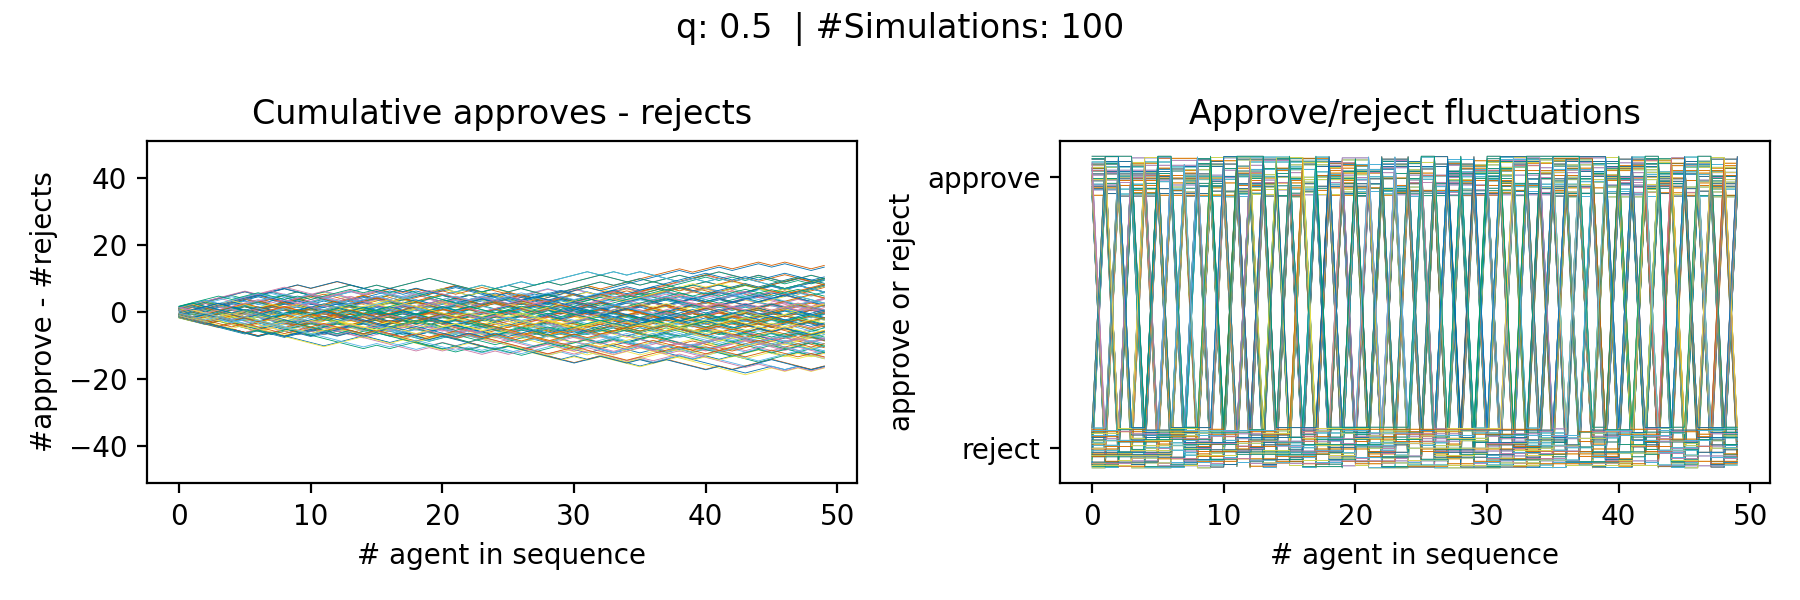
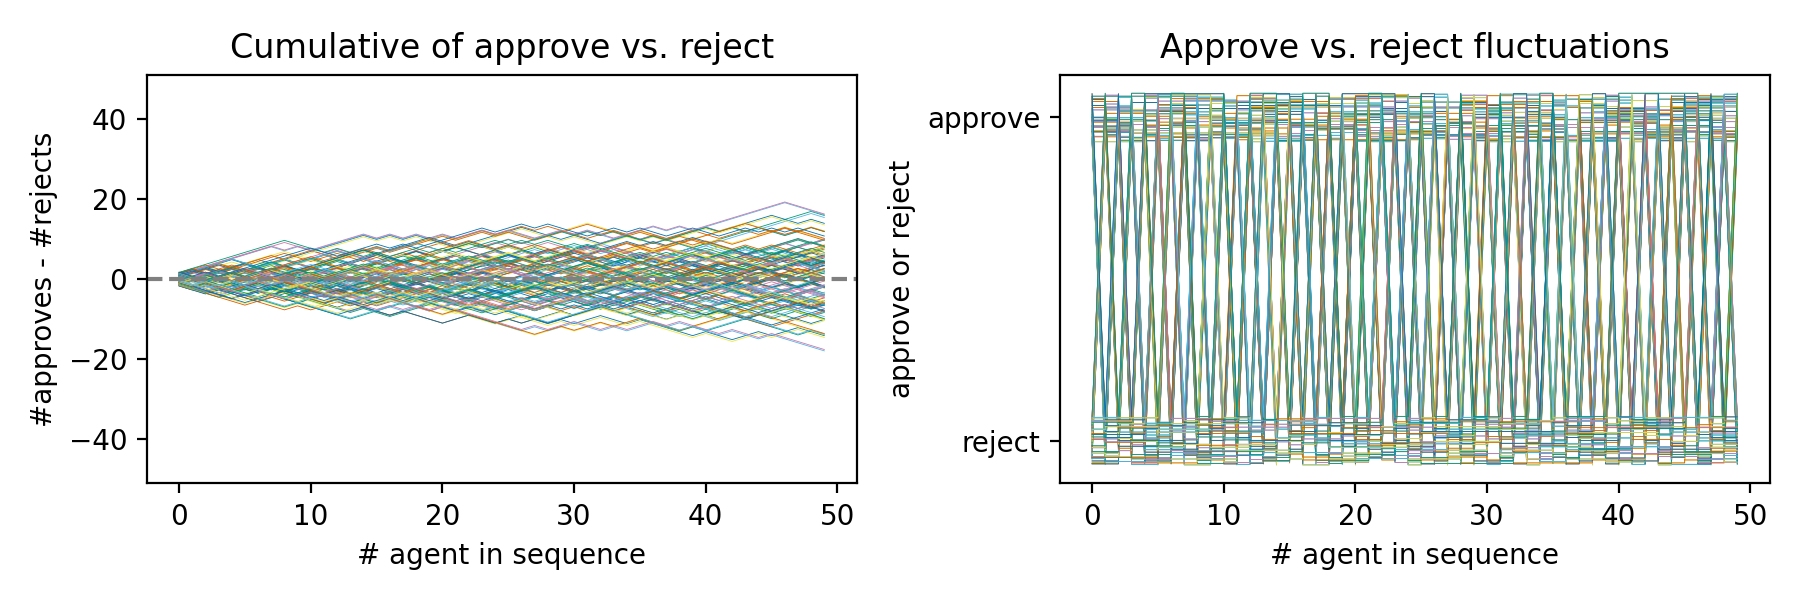
plot update

diff --git a/tools/plotting.py b/tools/plotting.py
@@ -57,8 +57,8 @@ def create_double_plot(results, n_simutations, n_agents, signal_accuracy, save, 
     plt.style.use('seaborn-colorblind') # colors
 
     # info about data stored
-    plot_types = {'ab_cumsum': {'t': 'Cumulative approves - rejects', 'y': '#approve - #rejects'},
-                  'ab': {'t': 'Approve/reject fluctuations', 'y': 'approve or reject'}}
+    plot_types = {'ab_cumsum': {'t': 'Cumulative of approve vs. reject', 'y': '#approves - #rejects'},
+                  'ab': {'t': 'Approve vs. reject fluctuations', 'y': 'approve or reject'}}
 
     n_subplots = len(plot_types.keys())
     fig, ax = plt.subplots(nrows=1, ncols=n_subplots, figsize=(9, 3))
@@ -82,6 +82,8 @@ def create_double_plot(results, n_simutations, n_agents, signal_accuracy, save, 
             offset = np.linspace(-3/4, 3/4, n_simutations)
             for sim in range(n_simutations):
                 ax[idx].plot(results[sim][plot_type] + offset[sim], linewidth=.3)
+            # if independent experiment
+            ax[idx].axhline(y=0, color='grey', linestyle='--')#, linewidth=.3)
         elif plot_type == 'ab':
             # creating offset for lines to make them more visible
             offset = np.linspace(-0.15, 0.15, n_simutations)
@@ -89,11 +91,10 @@ def create_double_plot(results, n_simutations, n_agents, signal_accuracy, save, 
                 ax[idx].plot(results[sim][plot_type] + offset[sim], linewidth=.3)
             ax[idx].set_yticks([-1, 1])
             ax[idx].set_yticklabels(['reject', 'approve'])
-
         ax[idx].set_ylabel(plot_types[plot_type]['y'])
         ax[idx].set_xlabel('# agent in sequence')
 
-    fig.suptitle(f"q: {signal_accuracy}  | #Simulations: {n_simutations}")
+    #fig.suptitle(f"q: {signal_accuracy}  | #Simulations: {n_simutations}")
     fig.tight_layout()
     if save:
         plt.savefig(f'results/{name}.png', dpi=200)

diff --git a/tools/functions.py b/tools/functions.py
@@ -46,6 +46,17 @@ def calculate_choice(posterior_prob, marble):
     return choose_a, choose_b
 
 
+def calculate_ratio(results):
+    num_blue = 0
+    total = len(results.keys()) # num simulations
+    for sim in list(results.keys()):
+        last_choice = results[sim]['ab'][-1]
+        if last_choice == 1: # blue
+            num_blue += 1
+    return num_blue/total
+
+
+
 def basic_simulation(n_simulations, n_agents, prior, signal_accuracy):
     # the basic simulation
 
@@ -76,6 +87,9 @@ def basic_simulation(n_simulations, n_agents, prior, signal_accuracy):
 
         results[sim]['a_cumsum'] = np.cumsum(results[sim]['a'])
         results[sim]['ab_cumsum'] = np.cumsum(results[sim]['ab'])
+
+    ratio = calculate_ratio(results)
+    results['ratio'] = ratio
 
     return results
 
@@ -117,5 +131,9 @@ def independent_simulation(n_simulations, n_agents, n_independent, prior, signal
 
         results[sim]['a_cumsum'] = np.cumsum(results[sim]['a'])
         results[sim]['ab_cumsum'] = np.cumsum(results[sim]['ab'])
+
+
+    ratio = calculate_ratio(results)
+    results['ratio'] = ratio
 
     return results

diff --git a/SA_exp.py b/SA_exp.py
@@ -1,21 +1,22 @@
 
 from tools import *
 
-np.random.seed(2)
+np.random.seed(4)
 
 
-n_simutalions = 100
+n_simulations = 100
 n_agents = 50
 prior = 1/2
-signal_accuracies = [1/2, 2/3, 9/10]
+signal_accuracies = [1/2, 1/2+1/1000000, 2/3, 9/10]
 save = True
 
 
 for signal_accuracy in signal_accuracies:
-    results = basic_simulation(n_simutalions, n_agents, prior, signal_accuracy)
-    name = 'SA_exp_' + str(np.round(signal_accuracy, 3))
-    create_double_plot(results, n_simutalions, n_agents, np.round(signal_accuracy, 3), save, name)
-
+    results = basic_simulation(n_simulations, n_agents, prior, signal_accuracy)
+    ratio = results['ratio']
+    print(f'for {str(np.round(signal_accuracy, 3))} the ratio is {ratio}')
+    name = 'SA_exp_' + str(np.round(signal_accuracy, 8))
+    create_double_plot(results, n_simulations, n_agents, np.round(signal_accuracy, 3), save, name)
 
 
 

diff --git a/independent_exp.py b/independent_exp.py
@@ -1,16 +1,19 @@
 
 from tools import *
 
+np.random.seed(4)
 
 
-n_simutalions = 100
+n_simulations = 100
 n_agents = 50
-n_independents = [10, 20, 30]
+n_independents = [5, 20, 45, 50]
 prior = 1/2
 signal_accuracy = 2/3
 save = False
 
 for n_independent in n_independents:
-    results = independent_simulation(n_simutalions, n_agents, n_independent, prior, signal_accuracy)
+    results = independent_simulation(n_simulations, n_agents, n_independent, prior, signal_accuracy)
+    ratio = results['ratio']
+    print(f'for {n_independent} the ratio is {ratio}')
     name = 'ind_exp_' + str(n_independent)
-    create_double_plot(results, n_simutalions, n_agents, np.round(signal_accuracy, 3), save, name)
+    create_double_plot(results, n_simulations, n_agents, np.round(signal_accuracy, 3), save, name)
